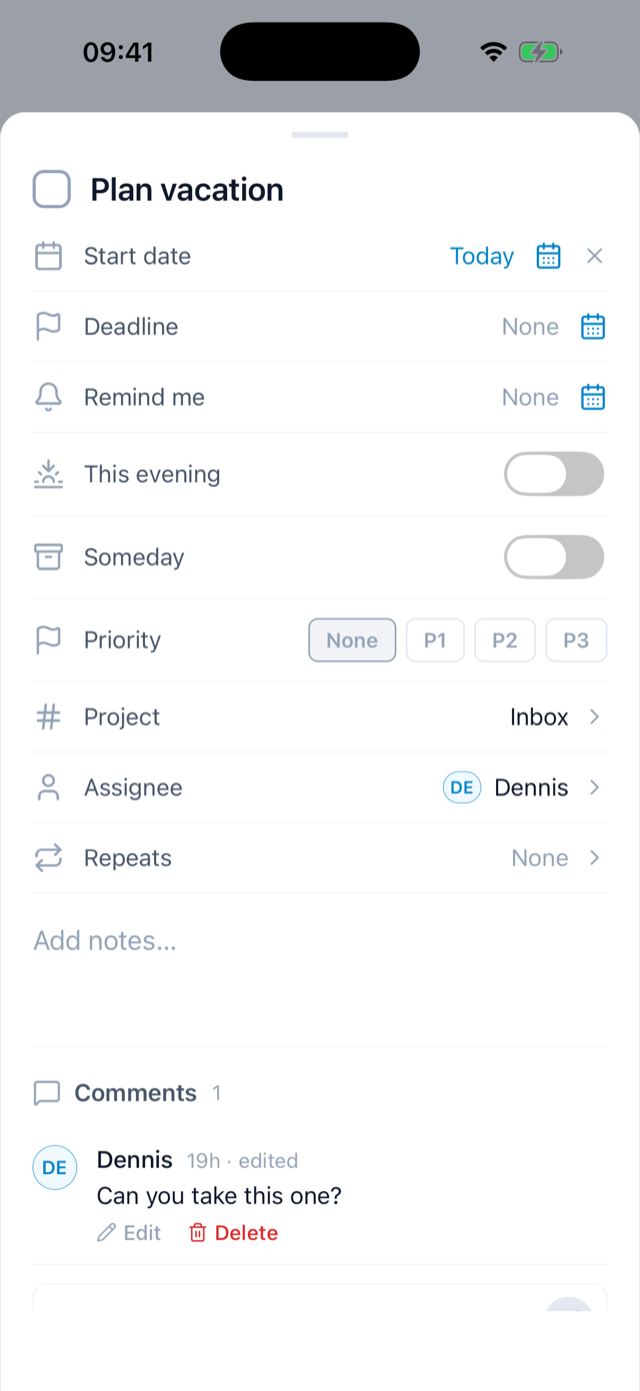
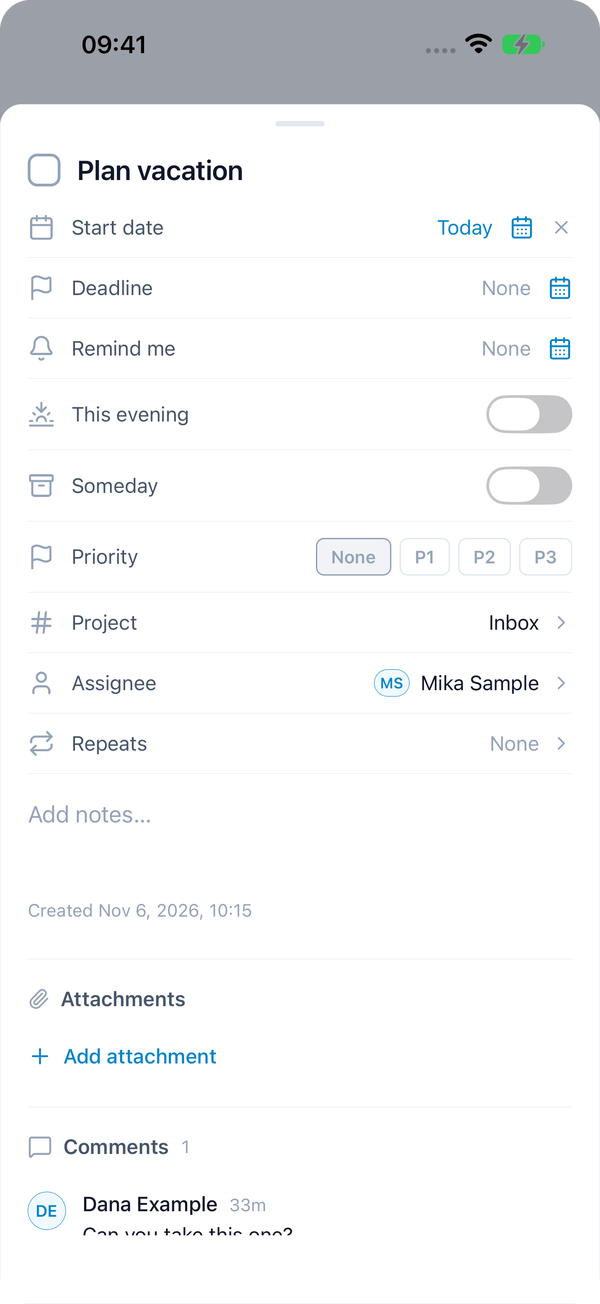
Show the large-screen layouts in the README
The mobile apps now support iPad, the foldable iPhone Duo and Android tablets, but the README only showed iPhone screenshots from before the SDK 58 upgrade. It now opens with a device lineup (light and dark variant, switched by prefers-color-scheme so it sits on GitHub's background in both themes), the iOS phone row uses fresh captures with the NativeTabs tab bar, and a new row shows the iPad side sheet, the unfolded Duo and the Android tablet rail. All images use neutral demo accounts and a 9:41 status bar; they were rendered outside the repo and optimised to 90-280 KB each.

diff --git a/README.md b/README.md
@@ -1,5 +1,10 @@
 # Balu
 
+<picture>
+  <source media="(prefers-color-scheme: dark)" srcset="docs/screenshots/hero-dark.png">
+  <img alt="Balu on an Android tablet, an iPad, an iPhone Duo, an iPhone and an Android phone" src="docs/screenshots/hero-light.png">
+</picture>
+
 A self-hostable, multi-tenant todo app with first-class iOS and Android apps.
 **The self-hostable todo app that feels like Things and syncs like Todoist.**
 
@@ -22,6 +27,13 @@ The same data, on the phone - the mobile apps are full clients, not a web view:
 | Today | Today, dark | Task detail |
 |---|---|---|
 | ![iOS Today, light](docs/screenshots/ios-today-light.png) | ![iOS Today, dark](docs/screenshots/ios-today-dark.png) | ![iOS task detail](docs/screenshots/ios-detail.png) |
+
+And on the big screens: iPad, the foldable iPhone Duo and Android tablets get a readable
+column, a side rail on Android, and the task detail as a side sheet next to the list.
+
+| iPad | iPhone Duo, unfolded | Android tablet |
+|---|---|---|
+| ![iPad, Today with the task detail side sheet](docs/screenshots/ipad-landscape.png) | ![iPhone Duo inner display, Today](docs/screenshots/duo-inner.png) | ![Android tablet, Today with the navigation rail and the task detail side sheet](docs/screenshots/android-tablet.png) |
 
 Point them at your own server on first launch - there is no account with us.
 [App Store](https://apps.apple.com/app/balu-private-todo-tasks/id6794310209) ·
